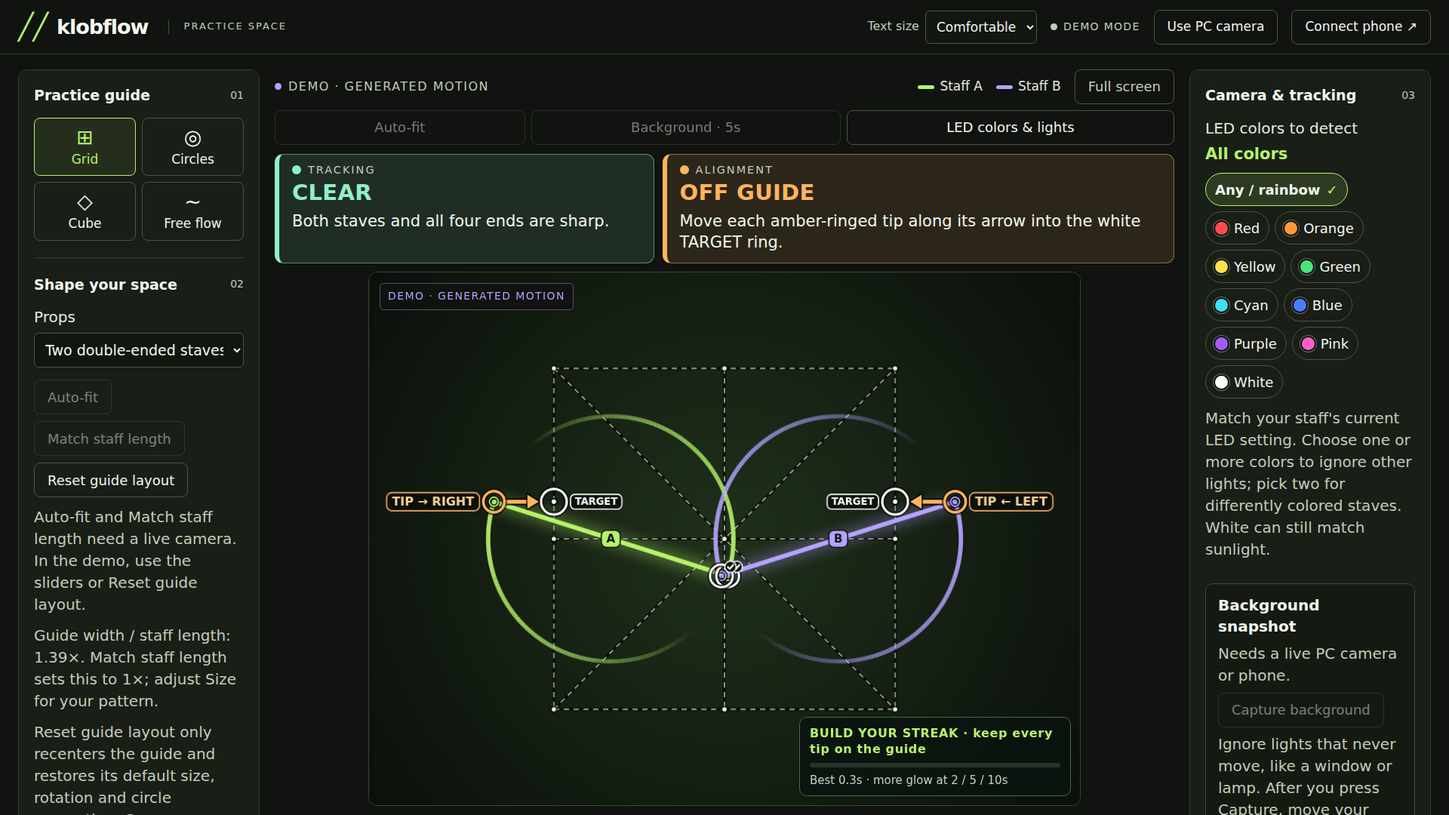
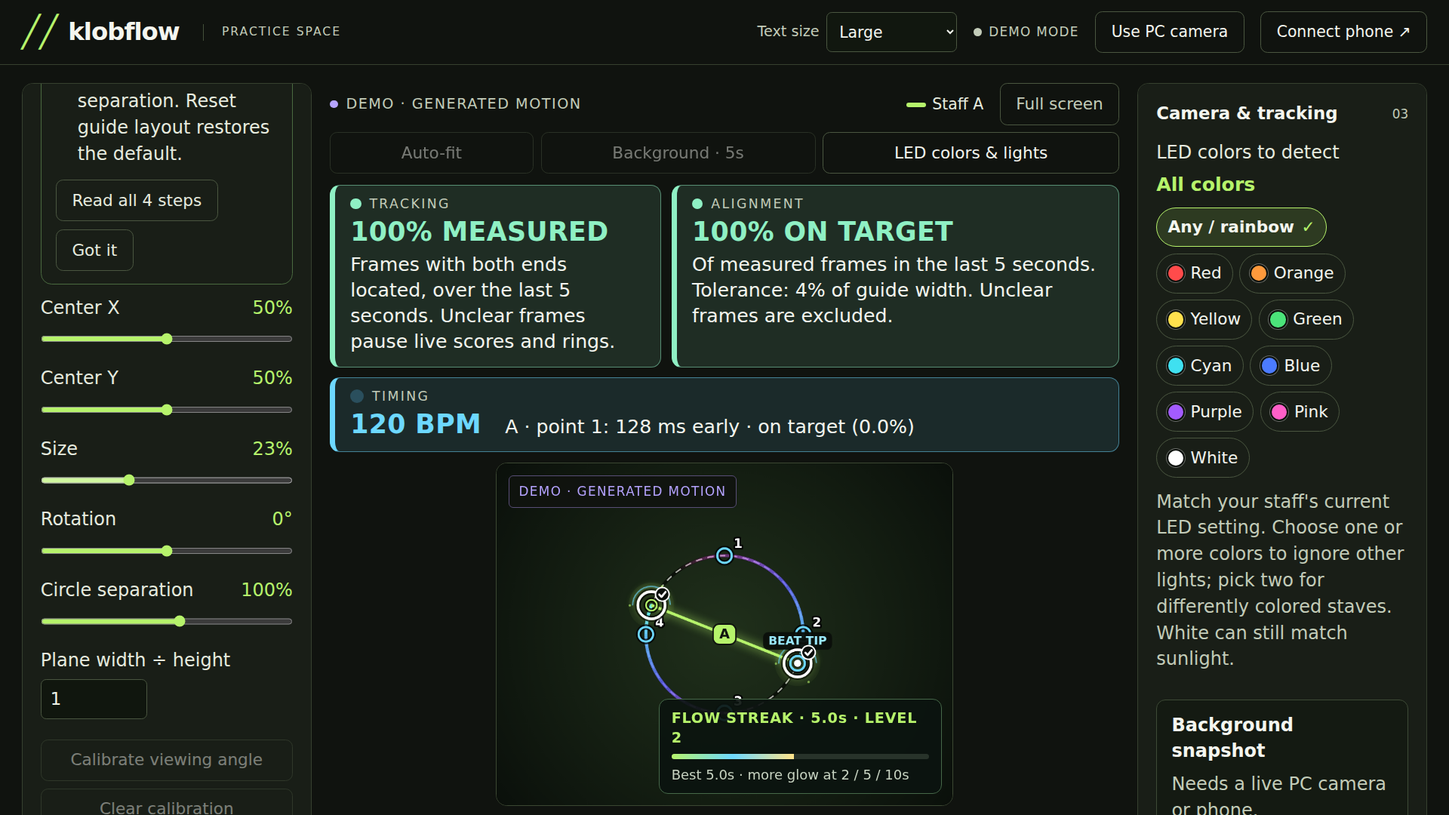
Improve LED endpoint recovery and clarify practice feedback

diff --git a/app/src/main/java/com/caleb/klobflow/AlignmentFeedback.kt b/app/src/main/java/com/caleb/klobflow/AlignmentFeedback.kt
@@ -6,7 +6,7 @@ import kotlin.math.*
  *  [cues] marks text that refers to correction marks currently drawn on the camera view. */
 data class BoxText(val tone:String,val title:String,val detail:String,val number:Double=0.0,val cues:Boolean=false)
 data class Coaching(val state:String,val title:String,val detail:String,val tips:List<TipCue> = emptyList(),
-    val tracking:BoxText=BoxText("idle","NO CAMERA YET","Open the camera or try the demo."),val trackingConfirmed:Boolean=false,val cues:Boolean=false)
+    val tracking:BoxText=BoxText("idle","NO CAMERA YET","Open the camera or try the demo."),val trackingConfirmed:Boolean=false,val cues:Boolean=false,val summary:BoxText?=null)
 
 private val issueRank=mapOf("uncertain" to 1,"blur" to 2,"hidden" to 3,"missing" to 4)
 
@@ -27,7 +27,7 @@ private fun describeIssue(issue:Pair<String,Int>,count:Int):BoxText {
     return when(kind){
         "missing"->BoxText("warn",if(staff<0)(if(count==1)"NO STAFF FOUND" else "NO STAVES FOUND") else if(count==1)"STAFF NOT FOUND" else "STAFF ${"AB"[staff]} NOT FOUND","Keep the whole staff lit and in frame. Scores pause until it is found.")
         "hidden"->BoxText("warn","END HIDDEN","An end is covered or outside the frame. Keep both ends in view.")
-        "blur"->BoxText("warn","MOTION BLUR","Fast motion smears the light, so the ends are uncertain. Scores pause until they are sharp.")
+        "blur"->BoxText("warn","ENDS UNCLEAR","The glow is visible, but both ends cannot be located reliably. This frame is excluded.")
         "uncertain"->BoxText("warn","UNSURE","Crossing staves or a faint shape. Scores pause until tracking is sure.")
         "outside"->BoxText("warn","OUTSIDE PLANE","A tip left the calibrated rectangle. Scores pause until every tip is inside it.")
         else->BoxText("warn","LOCKING ON","Keep your staves in view while tracking confirms them.")
@@ -37,11 +37,13 @@ private fun describeIssue(issue:Pair<String,Int>,count:Int):BoxText {
 /** Presentation hysteresis never changes scores or makes uncertain observations valid. */
 class AlignmentFeedback {
     private var time=-1L;private var key="";private var lastIssue:Pair<String,Int>?=null
+    private data class Sample(val time:Long,val valid:Boolean,val on:Boolean)
+    private val samples=ArrayList<Sample>()
     private var onSince=arrayOfNulls<Long>(4);private var on=BooleanArray(4);private var alignedSince:Long?=null
     private fun clear(){onSince=arrayOfNulls(4);on=BooleanArray(4);alignedSince=null}
     fun update(t:Long,staffs:List<Segment?>,guide:Guide,background:BackgroundStatus=BackgroundStatus()):Coaching {
-        val c=guide.config;val nextKey="${c.mode}/${c.staffCount}/${c.tolerance}/${c.planeCorners}"
-        if(t<time||nextKey!=key){clear();lastIssue=null}
+        val c=guide.config;val nextKey="${c.mode}/${c.staffCount}/${c.tolerance}/${c.planeCorners}/${c.cx}/${c.cy}/${c.scale}/${c.rotation}/${c.circleSeparation}/${guide.width}/${guide.height}/${c.staffColors}/${c.threshold}/${c.minLength}/${c.led}/${c.facing}/${c.mirror}/${c.zoom}"
+        if(t<time||nextKey!=key){clear();lastIssue=null;samples.clear()}
         time=t;key=nextKey
         val count=c.staffCount;val free=c.mode=="free";val cues=guide.cues(staffs)
         val issue=trackingIssue(staffs,count) ?: if(!free&&cues.size!=count*2)"outside" to -1 else null
@@ -50,16 +52,24 @@ class AlignmentFeedback {
         val snapshot=background.state=="countdown"||background.state=="capturing"
         // The tracker already confirms consecutive observations. Do not add a text-delay gate to scores.
         val confirmed=issue==null&&!snapshot
+        samples.removeAll {t-it.time>5000||it.time==t}
+        if(snapshot)samples.clear() else samples.add(Sample(t,confirmed,confirmed&&cues.size==count*2&&cues.all {it.error<=c.tolerance}))
+        val measured=samples.filter {it.valid};val recent=measured.size>=3&&t-measured.last().time<=(if(issue?.first=="hidden")1500 else 1000)
+        val coverage=(measured.size*100.0/max(1,samples.size)).roundToInt()
+        val onPercent=if(measured.isEmpty())0 else (measured.count {it.on}*100.0/measured.size).roundToInt()
+        val tolerance=if(c.tolerance%1.0==0.0)c.tolerance.toInt().toString()else c.tolerance.toString()
+        val summary=if(recent&&!free&&!snapshot)BoxText(if(onPercent>=80)"ok" else "warn","$onPercent% ON TARGET","Of measured frames in the last 5 seconds. Tolerance: $tolerance% of guide width. Unclear frames are excluded.")else null
         val tracking=when{
             snapshot->BoxText("wait","BACKGROUND SNAPSHOT","Move your staves out of view and keep the phone still.")
+            recent->BoxText(if(coverage>=80)"ok" else "warn","$coverage% MEASURED","Frames with both ends located, over the last 5 seconds. Unclear frames pause live scores and rings.")
             confirmed->BoxText("ok","CLEAR",if(count==1)"Your staff and both of its ends are sharp." else "Both staves and all four ends are sharp.")
             // StableText holds and fades text independently of current measurements.
             else->describeIssue(issue ?: lastIssue ?: ("starting" to -1),count)
         }
-        fun result(state:String,title:String,detail:String,tips:List<TipCue> = emptyList(),cues:Boolean=false)=Coaching(state,title,detail,tips,tracking,confirmed,cues)
+        fun result(state:String,title:String,detail:String,tips:List<TipCue> = emptyList(),cues:Boolean=false)=Coaching(state,title,detail,tips,tracking,confirmed,cues,summary)
         if(free)return result("free","FREE FLOW",if(c.trails)"No alignment score here. Faint curves show where each tip traveled." else "No alignment score here. Choose Grid, Circles or Cube for targets.")
         if(snapshot)return result("paused","PRECISION PAUSED","Scores resume after the background snapshot.")
-        if(!confirmed)return result("paused","PRECISION PAUSED","Clear frames update the rings. Hidden or smeared ends do not count.")
+        if(!confirmed)return result("paused","PRECISION PAUSED","No current measurement. Keep both ends lit and in view; unclear frames are excluded.")
         val tips=cues.mapIndexed {i,cue->
             if(cue.error>c.tolerance){on[i]=false;onSince[i]=null}
             else if(!on[i]){if(cue.error<=c.tolerance*.85){if(onSince[i]==null)onSince[i]=t;if(t-onSince[i]!!>=300)on[i]=true}else onSince[i]=null}

diff --git a/app/src/main/java/com/caleb/klobflow/MainActivity.kt b/app/src/main/java/com/caleb/klobflow/MainActivity.kt
@@ -218,12 +218,13 @@ class MainActivity:ComponentActivity() {
                     ControlSlider("Rotation",ui.config.rotation.toFloat(),-90f..90f,"°"){patch("rotation",it.toDouble())}
                     if(ui.config.mode=="cube")ControlSlider("Cube projection depth",(ui.config.cubeDepth*100).toFloat(),10f..90f,"%"){patch("cubeDepth",it/100.0)}
                     if(ui.config.mode=="circles")ControlSlider("Circle separation",(ui.config.circleSeparation*100).toFloat(),0f..180f,"%"){patch("circleSeparation",it/100.0)}
-                    ControlSlider("Target tolerance",ui.config.tolerance.toFloat(),1f..15f,"%"){patch("tolerance",it.toDouble())}
+                    ControlSlider("Target tolerance",ui.config.tolerance.toFloat(),1f..50f,"%"){patch("tolerance",it.toDouble())}
+                    Text("Allowed distance from the guide as a percent of its width (diameter in Circles). Higher is more forgiving; detection is unchanged.",color=Muted,fontSize=14.sp,lineHeight=19.sp)
                     Toggle("Alignment cues (arrows and targets)",ui.config.showFeedback){patch("showFeedback",it)}
                     Toggle("Show guide",ui.config.showGuide){patch("showGuide",it)}
                     Toggle("Diagonal grid lines",ui.config.diagonals){patch("diagonals",it)}
                     Toggle("Tip trails",ui.config.trails){patch("trails",it)}
-                    Text("Continuous paths with subtle highlights at clear detections.",color=Muted,fontSize=14.sp)
+                    Text("Cyan = newest → blue / violet → pink = older. Trails fade over 4.2 seconds; subtle highlights mark clear detections.",color=Muted,fontSize=14.sp)
                     Toggle("Streak glow and particles",ui.config.streakEffects){patch("streakEffects",it)}
                     Text("Keep every tip on the guide. Glow builds at 2, 5 and 10 seconds. Blur pauses the streak; leaving the guide ends it.",color=Muted,fontSize=14.sp,lineHeight=19.sp)
                     if(ui.config.staffCount==2)Toggle("Mirror-symmetry measurement",ui.config.symmetry){patch("symmetry",it)}
@@ -270,7 +271,7 @@ class MainActivity:ComponentActivity() {
 @Composable private fun StatusBoxes(feedback:Coaching?,compact:Boolean=false,horizontal:Boolean=false) {
     val tracking=feedback?.tracking ?: BoxText("idle","NO CAMERA YET","Open the camera or try the demo.")
     val alignment=if(feedback==null)BoxText("idle","WAITING","Alignment feedback appears when your staves are tracked.")
-        else BoxText(when(feedback.state){"aligned","settling"->"ok";"adjust"->"warn";"free"->"idle";else->"wait"},feedback.title,feedback.detail,cues=feedback.cues)
+        else feedback.summary ?: BoxText(when(feedback.state){"aligned","settling"->"ok";"adjust"->"warn";"free"->"idle";else->"wait"},feedback.title,feedback.detail,cues=feedback.cues)
     val inactive={b:BoxText->b.tone=="wait" || b.tone=="idle"}
     val (trackingText,trackingUrgent)=rememberHeldText(tracking){a,b->a.tone=="ok" && b.tone!="ok" || (a.title=="BACKGROUND SNAPSHOT")!=(b.title=="BACKGROUND SNAPSHOT")}
     // Text that names drawn arrows/targets must appear and disappear with them, never fade over absent marks.
@@ -363,7 +364,7 @@ class MainActivity:ComponentActivity() {
                 fun visible(s:Segment?)=s!=null&&!s.occluded&&(s.confidence>=.55||s.blurred)
                 fun fade(time:Long)=(1-(f.time-time)/4200f).coerceIn(0f,1f)
                 trails.forEachIndexed {index,entry->entry.second.forEachIndexed {i,s->if(visible(s)){
-                    val staff=s!!;val color=if(i==0)Lime else Lavender
+                    val staff=s!!;val color=Color.hsl(180f+(1-fade(entry.first))*150f,1f,.7f)
                     val previous=trails.getOrNull(index-1);val old=previous?.second?.getOrNull(i)
                     if(previous!=null&&visible(old)&&entry.first-previous.first in 1..150&&
                         max(old!!.a.distance(staff.a),old.b.distance(staff.b))<=min(old.length,staff.length)*.6){
@@ -409,7 +410,7 @@ class MainActivity:ComponentActivity() {
             fun beside(center:Offset,ux:Float,uy:Float,r:Float):(Float,Float)->Offset={w,h->val reach=r+5f*k+abs(ux)*w/2+abs(uy)*h/2;Offset(center.x+ux*reach,center.y+uy*reach)}
             // A letter at each staff's middle names the line; lime and purple identify staves, not scores.
             f.staffs.forEachIndexed {i,s->if(s!=null && i<ui.config.staffCount){
-                val mid=p(s.center);val note=if(s.occluded)" · HIDDEN" else if(s.blurred)" · BLUR" else if(s.confidence<.55)" · UNSURE" else ""
+                val mid=p(s.center);val note=if(s.occluded)" · LAST SEEN" else if(s.blurred)" · ENDS UNCLEAR" else if(s.confidence<.55)" · UNSURE" else ""
                 tag("${if(i==0)"A" else "B"}$note",14.sp.toPx(),if(i==0)Lime else Lavender,Background,Background,listOf<(Float,Float)->Offset>({_,_->mid},{_,h->Offset(mid.x,mid.y-h*1.2f)},{_,h->Offset(mid.x,mid.y+h*1.2f)}),force=true,alpha=if(s.occluded).65f else 1f)
             }}
             if(f.beat.enabled){
@@ -423,7 +424,10 @@ class MainActivity:ComponentActivity() {
                     labelPaint.style=android.graphics.Paint.Style.FILL;labelPaint.color=android.graphics.Color.WHITE
                     drawContext.canvas.nativeCanvas.drawText("${j+1}",pos.x+r+7f*k,pos.y-r,labelPaint)
                 }}
-                f.staffs.forEach {s->if(s!=null && s.confidence>=.55){drawCircle(Color.Black,4.6f*k,p(s.a));drawCircle(Color.White,3f*k,p(s.a))}}
+                f.staffs.forEach {s->if(s!=null && s.confidence>=.55){
+                    val pos=p(s.a);ring(pos,8f*k,Cyan,2.5f*k);drawCircle(Color.White,4f*k,pos)
+                    tag("BEAT TIP",13.sp.toPx(),Background,Cyan,null,listOf(beside(pos,0f,-1f,10f*k),beside(pos,1f,0f,10f*k),beside(pos,-1f,0f,10f*k)))
+                }}
             }
             // Correction cues: amber ring = the tip to move, arrow = which way, white bullseye = where it belongs.
             // Nothing is drawn (and no text refers to cues) when they are off or tracking is not confirmed.

diff --git a/app/src/main/java/com/caleb/klobflow/PracticeControls.kt b/app/src/main/java/com/caleb/klobflow/PracticeControls.kt
@@ -73,7 +73,15 @@ import kotlin.math.*
         TextButton(enabled=ui.config.tempoSource=="manual",onClick={engine.command(JSONObject().put("action","syncBeat"))}){Text("Start beat now")}
         TextButton(onClick={val now=SystemClock.elapsedRealtime();taps=if(taps.isEmpty() || now-taps.last()>2000)listOf(now)else (taps+now).takeLast(6);if(taps.size>1){val tempo=(60000.0*(taps.size-1)/(now-taps.first())).roundToInt().coerceIn(30,240);engine.updateConfig(JSONObject().put("bpm",tempo).put("tempoEnabled",true).put("tempoSource","manual"));engine.command(JSONObject().put("action","syncBeat"))}}){Text("Tap tempo")}
     }
-    Text("Pass the numbered points on the pulse. The Timing box shows milliseconds early or late and the distance from the point separately. Start beat now aligns the pulse to your first beat.",fontSize=14.sp,lineHeight=19.sp,color=Muted)
+    var help by remember {mutableStateOf(false)}
+    TextButton(onClick={help=true}){Text("How beat practice works")}
+    if(help)AlertDialog(onDismissRequest={help=false},title={Text("Hit a point on each beat")},text={Column(Modifier.verticalScroll(rememberScrollState())){
+        listOf("Follow the end labeled BEAT TIP. Only that end is timed. Pass it across a numbered target on each blue pulse, in either direction. The pulse is visual; there is no metronome sound.",
+            "With 4 points at 120 BPM: top → right → bottom → left on successive beats. One full circle takes 2 seconds. Try 2 points first. All target rings pulse together; numbers label positions, not a required starting point.",
+            "On beat means within 75 ms early or late. On target means within your Target tolerance. These are separate checks. Hidden or unclear tips do not produce a beat result.",
+            "Start beat now resets the manual pulse. Tap tempo sets its speed from your taps. System audio follows its detected beat. Adjust Audio offset if the pulse consistently leads or lags the music.")
+            .forEach {Text(it,fontSize=16.sp,lineHeight=22.sp,modifier=Modifier.padding(bottom=12.dp))}
+    }},confirmButton={TextButton(onClick={help=false}){Text("Got it")}})
 }
 /** Timing box: the text holds and fades slowly; only the small dot pulses on the beat. */
 @Composable fun BeatFeedback(ui:FlowUi,compact:Boolean=false) {
@@ -84,9 +92,9 @@ import kotlin.math.*
     val next=if(paused)BoxText("wait","Beat timing paused",if(f.audio.status.contains("Following"))"Waiting for fresh audio timing." else f.audio.status)
     else BoxText("timing","${beat.bpm.roundToInt()} BPM",beat.hits.mapIndexed {i,hit->
         val name=if(i==0)"A" else "B"
-        if(hit==null)"$name · waiting for a tip to pass a point" else {
+        if(hit==null)"$name · pass the BEAT TIP across a numbered target on a pulse" else {
             val timing=if(abs(hit.offsetMs)<=75)"on beat" else "${abs(hit.offsetMs).roundToInt()} ms ${if(hit.offsetMs<0)"early" else "late"}"
-            "$name · point ${hit.point}: $timing · ${"%.1f".format(hit.error)}% from point${if(hit.error<=ui.config.tolerance)" ✓" else ""}"
+            "$name · point ${hit.point}: $timing · ${if(hit.error<=ui.config.tolerance)"on target" else "off target"} (${"%.1f".format(hit.error)}%)"
         }
     }.joinToString("\n"),beat.bpm)
     val pulse=beat.enabled && beat.phase<.18

diff --git a/companion/public/index.html b/companion/public/index.html
@@ -137,7 +137,12 @@
           <label>Manual BPM <input id="bpm" data-config="bpm" type="number" min="30" max="240" step="1" value="120"></label>
           <label class="select-label">Points per turn <select data-config="beatPoints"><option value="2">2</option><option value="4" selected>4</option><option value="8">8</option></select></label>
           <div class="button-row wrap"><button id="sync-beat" class="subtle">Start beat now</button><button id="tap-tempo" class="subtle">Tap tempo</button></div>
-          <p class="small-note">Pass the numbered points on each pulse. The Timing box shows milliseconds early or late and how far the tip was from the point, separately.</p></div>
+          <details class="beat-help"><summary>How beat practice works</summary>
+          <p>Follow the end labeled <strong>BEAT TIP</strong>. Only that end is timed. Pass it across a numbered target on each blue pulse; either direction works. The pulse is visual, with no metronome sound.</p>
+          <p>With 4 points and 120 BPM, pass top → right → bottom → left on successive beats: one full circle every 2 seconds. Start with 2 points for a simpler exercise. All target rings pulse together; the numbers label positions, not a required starting point.</p>
+          <p><strong>On beat</strong> means within 75 milliseconds early or late. <strong>On target</strong> means within your Target tolerance. These are separate checks. Hidden or unclear tips do not produce a beat result.</p>
+          <p>With manual BPM, <strong>Start beat now</strong> resets the pulse; <strong>Tap tempo</strong> sets its speed from your taps. System audio follows its detected beat. Adjust Audio timing offset if the pulse consistently leads or lags the music.</p>
+          </details></div>
           <label class="toggle"><input type="checkbox" data-config="showFeedback" checked><span>Alignment cues (arrows and targets)</span></label>
           <label class="range-label"
             >Target tolerance <output for="tolerance">4%</output
@@ -146,10 +151,11 @@
               data-config="tolerance"
               type="range"
               min="1"
-              max="15"
+              max="50"
               step="0.5"
               value="4"
           /></label>
+          <p class="small-note">Allowed distance from the guide, as a percentage of its width (the diameter in Circles). Higher is more forgiving; it does not change detection.</p>
           <label class="toggle"
             ><input type="checkbox" data-config="showGuide" checked /><span
               >Guide overlay</span
@@ -165,6 +171,7 @@
               >Tip trails</span
             ></label
           >
+          <p class="small-note">Cyan = newest → blue / violet → pink = older. Trails fade over 4.2 seconds; subtle highlights mark clear detections.</p>
           <label class="toggle"><input type="checkbox" data-config="streakEffects" checked><span>Streak glow &amp; particles</span></label>
           <p class="small-note">Keep every tip on the guide. Effects build at 2, 5, and 10 seconds. Blur pauses the streak; leaving the guide ends it.</p>
           <label class="toggle"

diff --git a/app/src/main/java/com/caleb/klobflow/GlowBody.kt b/app/src/main/java/com/caleb/klobflow/GlowBody.kt
@@ -9,7 +9,7 @@ internal fun glowBodyEndpoints(argb:IntArray,w:Int,h:Int,s:Segment):Segment? {
     val unit=min(w,h).toDouble();val len=s.length*unit;if(len<24)return null
     val ax=s.a.x*unit;val ay=s.a.y*unit;val bx=s.b.x*unit;val by=s.b.y*unit
     val dx=(bx-ax)/len;val dy=(by-ay)/len
-    if(minOf(ax,bx,ay,by)<2||max(ax,bx)>w-3||max(ay,by)>h-3)return null
+    // An uncertain halo/previous-length outline may cross the edge. Check the observed core instead.
     val margin=min(unit*.12,len*.18);val points=ArrayList<DoubleArray>();var peak=0.0
     for(y in max(1,floor(min(ay,by)-margin).toInt())..min(h-2,ceil(max(ay,by)+margin).toInt()))
         for(x in max(1,floor(min(ax,bx)-margin).toInt())..min(w-2,ceil(max(ax,bx)+margin).toInt())) {
@@ -30,7 +30,8 @@ internal fun glowBodyEndpoints(argb:IntArray,w:Int,h:Int,s:Segment):Segment? {
         }}
         if(part.size>=6)parts.add(part)
     }
-    parts.sortByDescending {it.size};val core=parts.take(2).flatten();if(core.size<18)return null
+    parts.sortByDescending {it.size};val core=parts.take(2).flatten()
+    if(core.size<18||core.any {it[0]<2||it[1]<2||it[0]>=w-2||it[1]>=h-2})return null
     var mass=0.0;var mx=0.0;var my=0.0
     for(p in core){mass+=p[2];mx+=p[0]*p[2];my+=p[1]*p[2]};mx/=mass;my/=mass
     var xx=0.0;var xy=0.0;var yy=0.0
@@ -43,9 +44,18 @@ internal fun glowBodyEndpoints(argb:IntArray,w:Int,h:Int,s:Segment):Segment? {
     data class Bin(var mass:Double=0.0,var side:Double=0.0,var square:Double=0.0,var count:Int=0)
     val bins=List(16){Bin()}
     for(p in core){val b=bins[min(15,floor((p[3]-low)/extent*16).toInt())];b.mass+=p[2];b.side+=p[4]*p[2];b.square+=p[4].pow(2)*p[2];b.count++}
-    fun supported(b:Bin)=b.count>=2
-    if(bins.take(6).count(::supported)<4||bins.drop(10).count(::supported)<4||bins.count(::supported)<10)return null
     val errorLimit=max(1.5,min(unit*.04,extent*.065))
+    // Saturated blue/rainbow shafts have darker white-core luminance than their caps.
+    // Confirm the connecting body separately; cap positions and spread still use bright pieces.
+    val support=IntArray(16)
+    for(p in points){
+        if(p[2]<max(45.0,peak*.28))continue
+        val along=(p[0]-mx)*ux+(p[1]-my)*uy;val side=-(p[0]-mx)*uy+(p[1]-my)*ux
+        if(along<low||along>high||abs(side)>errorLimit*.5)continue
+        support[min(15,floor((along-low)/extent*16).toInt())]++
+    }
+    fun supported(b:Bin)=b.count>=2
+    if(support.take(6).count {it>=2}<4||support.drop(10).count {it>=2}<4||support.count {it>=2}<10)return null
     for(end in listOf(bins.take(3),bins.drop(13))) {
         val endMass=end.sumOf {it.mass};if(endMass==0.0)return null
         val side=end.sumOf {it.side}/endMass;val variance=end.sumOf {it.square}/endMass-side*side

diff --git a/app/src/main/java/com/caleb/klobflow/StaffTracker.kt b/app/src/main/java/com/caleb/klobflow/StaffTracker.kt
@@ -201,8 +201,9 @@ class StaffTracker {
     private var last=listOf<Segment?>(null,null)
     private var lastAt=longArrayOf(0,0)
     private var streak=intArrayOf(0,0)
+    private var confirmedAt=longArrayOf(-1000000,-1000000)
     private var motion=Array(2){DoubleArray(3)}
-    fun reset(){last=listOf(null,null);lastAt=longArrayOf(0,0);streak=intArrayOf(0,0);motion=Array(2){DoubleArray(3)}}
+    fun reset(){last=listOf(null,null);lastAt=longArrayOf(0,0);streak=intArrayOf(0,0);confirmedAt=longArrayOf(-1000000,-1000000);motion=Array(2){DoubleArray(3)}}
     fun seed(staffs: List<Segment>,t:Long){require(staffs.size in 1..2);reset();last=staffs+List(2-staffs.size){null};lastAt=longArrayOf(t,t)}
     private fun predicted(i:Int,t:Long):Segment? {
         val s=last[i] ?: return null;val dt=((t-lastAt[i])/1000.0).coerceIn(0.0,.15);val v=motion[i]
@@ -233,18 +234,23 @@ class StaffTracker {
         val ambiguous=prior.all {it!=null} && best.first>=0 && best.second>=0 &&
             sorted.any {it.first==best.second && it.second==best.first && it.third-best.third<0.035}
         val selected=listOf(best.first,best.second).mapIndexed {i,index->
-            if(index<0){val p=prior[i];val established=streak[i]>=3;streak[i]=0
+            if(index<0){confirmedAt[i]=-1000000;val p=prior[i];val established=streak[i]>=3;streak[i]=0
                 if(p!=null && (established || p.occluded || p.blurred))p.copy(confidence=0.3,occluded=true) else null
             }else {
                 var s=candidates[index];val p=prior[i]
                 val predicted=if(p!=null)predicted(i,t)else null
                 if(predicted!=null && predicted.a.distance(s.b)+predicted.b.distance(s.a)<predicted.a.distance(s.a)+predicted.b.distance(s.b))s=s.reversed()
                 if(p!=null && s.length<p.length*0.72) {
-                    streak[i]=0
+                    streak[i]=0;confirmedAt[i]=-1000000
                     s.copy(confidence=0.35,occluded=true)
                 } else {
+                if(ambiguous)confirmedAt[i]=-1000000
                 if(s.blurred)streak[i]=0 else streak[i]++
-                s.copy(confidence=if(ambiguous)min(0.4,s.confidence) else if(streak[i]<3)min(0.5,s.confidence) else s.confidence)
+                // A rejected exposure does not erase a recently confirmed identity. Only a
+                // current clear associated observation can resume; predicted/blurred poses cannot.
+                val confirmed=!ambiguous&&!s.blurred&&(streak[i]>=3||(p!=null&&!p.occluded&&t-confirmedAt[i] in 0..250))
+                if(confirmed)confirmedAt[i]=t
+                s.copy(confidence=if(ambiguous)min(0.4,s.confidence) else if(confirmed)s.confidence else min(0.5,s.confidence))
                 }
             }
         }

diff --git a/app/src/test/java/com/caleb/klobflow/FeedbackTest.kt b/app/src/test/java/com/caleb/klobflow/FeedbackTest.kt
@@ -2,6 +2,34 @@ package com.caleb.klobflow
 import org.junit.Assert.*
 import org.junit.Test
 class FeedbackTest {
+    @Test fun briefBehindTheBackOcclusionKeepsRecentSummaryWithoutHiddenTipCredit(){
+        val g=Guide(Config(mode="circles",staffCount=1),320,240)
+        val s=Segment(g.center-P(g.radius,0.0),g.center+P(g.radius,0.0));val coach=AlignmentFeedback()
+        repeat(60){coach.update(it*17L,listOf(s),g)}
+        val hidden=s.copy(occluded=true,confidence=.3);val v=coach.update(2200,listOf(hidden),g)
+        assertFalse(v.trackingConfirmed);assertTrue(v.tips.isEmpty());assertEquals("100% ON TARGET",v.summary!!.title)
+        assertTrue(v.tracking.title.endsWith("% MEASURED"));assertNull(coach.update(2600,listOf(hidden),g).summary)
+    }
+    @Test fun recentCircleFeedbackSeparatesAlignmentFromTrackingCoverage(){
+        val c=Config(mode="circles",staffCount=1,tolerance=15.0);val g=Guide(c,320,240)
+        val s=Segment(g.center-P(g.radius,0.0),g.center+P(g.radius,0.0));val coach=AlignmentFeedback()
+        var v=Coaching("","","")
+        repeat(200){i->v=coach.update(i*25L,listOf(s.copy(blurred=i%5==4)),g)}
+        assertFalse(v.trackingConfirmed);assertEquals("paused",v.state);assertTrue(v.tips.isEmpty())
+        assertEquals("100% ON TARGET",v.summary!!.title);assertEquals("80% MEASURED",v.tracking.title)
+        assertTrue(v.summary!!.detail.contains("excluded"))
+        v=coach.update(6100,listOf(s.copy(blurred=true)),g)
+        assertNull(v.summary);assertEquals("ENDS UNCLEAR",v.tracking.title)
+        assertNull(coach.update(6200,listOf(s),Guide(c.copy(tolerance=30.0),320,240)).summary)
+    }
+    @Test fun expandedToleranceChangesAlignmentWithoutApprovingBlurredTips(){
+        val c=Config(mode="circles",staffCount=1).patch(org.json.JSONObject().put("tolerance",50))
+        val g=Guide(c,320,240);val s=Segment(g.center-P(g.radius*1.6,0.0),g.center+P(g.radius*1.6,0.0))
+        assertTrue(g.cues(listOf(s)).all {it.onTarget})
+        assertTrue(Guide(c.copy(tolerance=15.0),320,240).cues(listOf(s)).all {!it.onTarget})
+        assertFalse(AlignmentFeedback().update(0,listOf(s.copy(blurred=true)),g).trackingConfirmed)
+        try{c.patch(org.json.JSONObject().put("tolerance",50.5));fail("Invalid tolerance accepted")}catch(_:IllegalArgumentException){}
+    }
     @Test fun allGreenTipsDoNotReferToMissingOrangeArrowsWhileSettling(){
         val guide=Guide(Config(staffCount=1),320,240);val s=Segment(guide.point(-1.0,-1.0),guide.point(-1.0,1.0));val coach=AlignmentFeedback()
         coach.update(0,listOf(s,null),guide);val confirming=coach.update(650,listOf(s,null),guide)

diff --git a/app/src/androidTest/java/com/caleb/klobflow/AudioDeviceTest.kt b/app/src/androidTest/java/com/caleb/klobflow/AudioDeviceTest.kt
@@ -51,7 +51,12 @@ class AudioDeviceTest {
                 assertEquals("pc",engine.ui.value.frame!!.guide.config.tempoSource)
                 assertTrue("Fresh PC tempo must enable timing",engine.ui.value.frame!!.beat.enabled)
                 assertEquals(98.0,engine.ui.value.frame!!.beat.bpm,1e-8)
-                Thread.sleep(2200);assertFalse("Stale PC audio must pause the beat",engine.ui.value.frame!!.beat.enabled)
+                // Assert against a newly processed frame, not an old UI snapshot on a busy emulator.
+                val staleAfter=SystemClock.elapsedRealtime()+2200
+                val staleDeadline=staleAfter+10000
+                while(engine.ui.value.frame!!.time<staleAfter && SystemClock.elapsedRealtime()<staleDeadline)Thread.sleep(50)
+                assertTrue("No fresh frame arrived for the stale-audio check",engine.ui.value.frame!!.time>=staleAfter)
+                assertFalse("Stale PC audio must pause the beat",engine.ui.value.frame!!.beat.enabled)
                 scenario.onActivity {engine.command(JSONObject().put("action","audioStop"))}
             }finally {observing.set(false);observer.join(1000);java.io.File(context.getExternalFilesDir(null),"audio-cadence.json").writeText(org.json.JSONArray(observations.map {it.json()}).toString());track.release();context.stopService(android.content.Intent(context,PlaybackTempoService::class.java))}
         }

diff --git a/app/src/test/java/com/caleb/klobflow/TrackingTest.kt b/app/src/test/java/com/caleb/klobflow/TrackingTest.kt
@@ -47,6 +47,16 @@ class TrackingTest {
         t.update(listOf(a,b),1033);assertTrue(t.update(listOf(a,b),1066).all {it!!.confidence>=.55})
         t.update(emptyList(),1100);assertTrue(t.update(listOf(a,b),1133).all{it!!.confidence<.55})
     }
+    @Test fun briefBlurDoesNotForceClearAssociatedFramesToReconfirm(){
+        val t=StaffTracker();repeat(3){t.update(listOf(a),1000L+it*17,1)}
+        assertTrue(t.update(listOf(a.copy(blurred=true)),1051,1)[0]!!.confidence<.55)
+        assertTrue(t.update(listOf(a),1068,1)[0]!!.confidence>=.55)
+        repeat(20){assertTrue(t.update(listOf(a.copy(blurred=true)),1085L+it*17,1)[0]!!.confidence<.55)}
+        assertTrue(t.update(listOf(a),1425,1)[0]!!.confidence<.55)
+        t.update(listOf(a),1442,1);t.update(listOf(a),1459,1);t.update(emptyList(),1476,1)
+        assertTrue(t.update(listOf(a),1493,1)[0]!!.confidence<.55)
+        t.reset();assertTrue(t.update(listOf(a),1510,1)[0]!!.confidence<.55)
+    }
     @Test fun manualSeedIsOnlyAPrior(){val t=StaffTracker();t.seed(listOf(a,b),1000);assertTrue(t.update(emptyList(),1033).all{it==null})}
     @Test fun duplicateCandidateCannotBecomeTwoStaves(){val t=StaffTracker();repeat(4){assertTrue(t.update(listOf(a,a),1000L+it*33).filterNotNull().size<=1)}}
     @Test fun metricRejectsMissingOrUncertainStaff(){

diff --git a/app/src/test/java/com/caleb/klobflow/GlowBodyTest.kt b/app/src/test/java/com/caleb/klobflow/GlowBodyTest.kt
@@ -48,4 +48,20 @@ class GlowBodyTest {
         if(System.getenv("KLOBFLOW_UPDATE_FIXTURES")=="1")file.writeText(fixture.toString(2)+"\n")
         assertEquals(BrowserParityTest().canonical(JSONArray(file.readText())),BrowserParityTest().canonical(fixture))
     }
+    @Test fun dimmerBlueShaftConnectsWhiteCaps(){
+        for(theta in listOf(0.0,.4,1.0,1.7,2.4)){
+            val pixels=image(theta)
+            for(y in 0 until 240)for(x in 0 until 320){
+                val dx=x/240.0-2.0/3;val dy=y/240.0-.5
+                val a=dx*cos(theta)+dy*sin(theta);val b=-dx*sin(theta)+dy*cos(theta)
+                if(abs(a) in .04.. .25&&abs(b)<=.01)pixels[y*320+x]=0xff2490ff.toInt()
+            }
+            val s=StaffDetector().detect(pixels,320,240,Config(staffCount=1)).first()
+            assertFalse(s.blurred);assertEquals(.62,s.length,.012);assertTrue(angleDifference(s.angle,theta)<.025)
+        }
+    }
+    @Test fun clippedOuterHaloDoesNotHideVisibleCaps(){
+        val s=StaffDetector().detect(image(0.0,cx=.34),320,240,Config(staffCount=1)).first()
+        assertFalse(s.blurred);assertEquals(.62,s.length,.012)
+    }
 }

diff --git a/app/src/main/java/com/caleb/klobflow/Geometry.kt b/app/src/main/java/com/caleb/klobflow/Geometry.kt
@@ -74,7 +74,7 @@ data class Config(
             staffColors=colors,threshold=num("threshold",threshold.toDouble(),60.0,250.0).toInt(),minLength=num("minLength",minLength,0.1,0.8),
             cx=num("cx",cx,0.1,0.9),cy=num("cy",cy,0.1,0.9),scale=num("scale",scale,0.1,0.48),
             rotation=num("rotation",rotation,-90.0,90.0),cubeDepth=num("cubeDepth",cubeDepth,0.1,0.9),
-            circleSeparation=num("circleSeparation",circleSeparation,0.0,1.8),tolerance=num("tolerance",tolerance,1.0,15.0),
+            circleSeparation=num("circleSeparation",circleSeparation,0.0,1.8),tolerance=num("tolerance",tolerance,1.0,50.0),
             diagonals=flag("diagonals",diagonals),trails=flag("trails",trails),showGuide=flag("showGuide",showGuide),symmetry=flag("symmetry",symmetry),showFeedback=flag("showFeedback",showFeedback),
             facing=nextFacing,mirror=nextMirror,zoom=if(!restore && nextFacing!=facing)0.0 else nextZoom,planeCorners=corners,
             planeAspect=num("planeAspect",planeAspect,0.25,4.0),calibrationRotation=num("calibrationRotation",calibrationRotation.toDouble(),0.0,3.0).toInt(),

diff --git a/README.md b/README.md
@@ -30,7 +30,7 @@ Klobflow is bundled in [klobstore v0.1.2+](https://github.com/xklob/klobstore/re
 2. Turn on the LED staves. The default detector looks for bright, narrow shapes without markers. Choose the actual **Staff LED colors** to reject differently colored lights, or keep **Any / rainbow** for animated LEDs. Adjust brightness and the minimum apparent end-to-end staff length in **Adjust**. The length threshold is a percentage of the camera image's shorter edge, not physical centimeters or guide size.
 3. Choose **Grid**, **Circles**, **Cube**, or **Free**. Calibrate position, size, rotation, circle separation, and cube projection depth to your practice area. Fitting starts only when you press **Auto-fit** after you are ready. It measures reliable full staves, then sets center/size and conservatively adjusts hardware zoom. The guide stays fixed afterward. Saved layout and zoom are retained on reopening, including when upgrading from settings that enabled startup fitting.
 4. Automatic detection starts with the strongest elongated shapes. If it chooses incorrectly, hold still and use **Identify staves** to tap both ends of staff A, then both ends of staff B. **Reacquire** clears tracking history.
-5. Start slowly. Stave outlines show tracking; low confidence pauses the scores. Connected trails show the last 4.2 seconds of observed tip motion, with a slight brightness lift at actual detections. Missing observations, long frame gaps, and large jumps break the line instead of drawing across unknown motion. A brief hidden tip keeps its staff association for up to 1.5 seconds and is explicitly labelled; precision scores pause until visible endpoints are confirmed again.
+5. Start slowly. Stave outlines show tracking; low confidence pauses the scores. Connected trails show the last 4.2 seconds of observed tip motion. Cyan marks the newest segments, shifting through blue and violet toward pink as they age, with a slight brightness lift at actual detections. Missing observations, long frame gaps, and large jumps break the line instead of drawing across unknown motion. A brief hidden tip keeps its staff association for up to 1.5 seconds and is explicitly labelled; precision scores pause until visible endpoints are confirmed again.
 6. **Record practice** saves a silent MP4 to `Movies/Klobflow` and per-frame analysis privately in the app. **Sessions** plays the video or exports the JSONL measurements. The overlay is live and is **not burned into the MP4**.
 
 Camera capture requests 1080p at 60 fps, with 720p/30 fps fallback if binding fails. CameraX treats frame rate as a target, not a guarantee. Analysis consumes the latest available frame without a fixed 30 fps cap. The PC preview continuously streams matching JPEG frames and analysis at the available analysis rate, with a measured preview-fps readout and no 10 fps polling cap. A higher video frame rate does not eliminate motion blur. Camera hardware, exposure, and processing load affect the actual rates.
@@ -40,6 +40,12 @@ Camera capture requests 1080p at 60 fps, with 720p/30 fps fallback if binding fa
 **Auto-fit** and **Background · 5s** sit beside the preview. On Android, **Setup** opens LED colors, background controls, Match staff length, and Reset guide layout. In the browser, **LED colors & lights** takes you directly to those detection controls; fitting sits near the top of the guide panel. Mode tutorials show the first step initially, with the remaining steps available on demand. **What do the lines and rings mean?** opens the overlay legend.
 
 Choose **Full screen** for a focused practice view. Both versions keep tracking, alignment, timing, streaks, recording, and **Exit full screen** available. Android arranges the preview beside the feedback in landscape. Exiting returns to the settings without restarting capture. On the desktop, select **Large** text for viewing from across the room.
+
+The **Tracking** box reports the percentage of recent frames with measurable endpoints. **Alignment** reports the percentage of measured frames with every tip inside the target tolerance, over the last five seconds. These are separate: uncertain frames are excluded from alignment, while current numeric scores and correction rings still pause immediately. A brief behind-the-back pass keeps the recent summary and staff association without treating a hidden tip as a measurement. Faded outlines marked **LAST SEEN** are not current detections.
+
+**Target tolerance** ranges from **1–50% of guide width** (circle diameter in Circles), on both Android and the browser. Higher values are more forgiving; detection confidence is unchanged. Start with the guide centered and sized to your movement, then choose a tolerance that suits the exercise.
+
+For **Beat practice**, follow the endpoint labeled **BEAT TIP**. Pass a numbered target on each visual blue pulse, in either direction. With 4 points at 120 BPM, a full circle takes two seconds. “On beat” means within ±75 ms; “on target” uses the spatial Target tolerance. The pulse is silent. **How beat practice works** explains manual synchronization, tap tempo, and system-audio timing in both interfaces.
 
 ## Ignoring lights in the room
 
